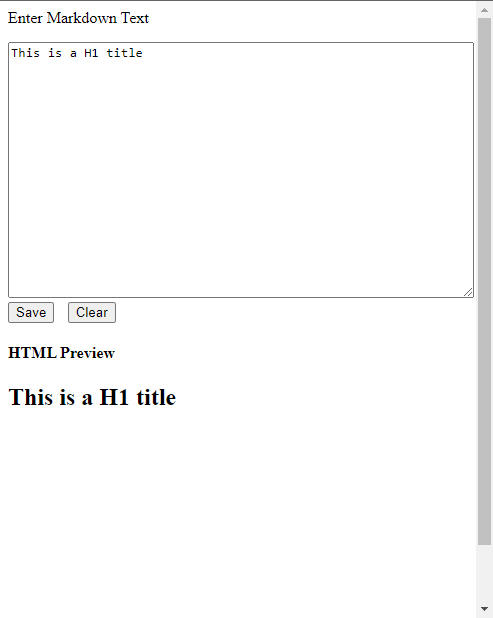
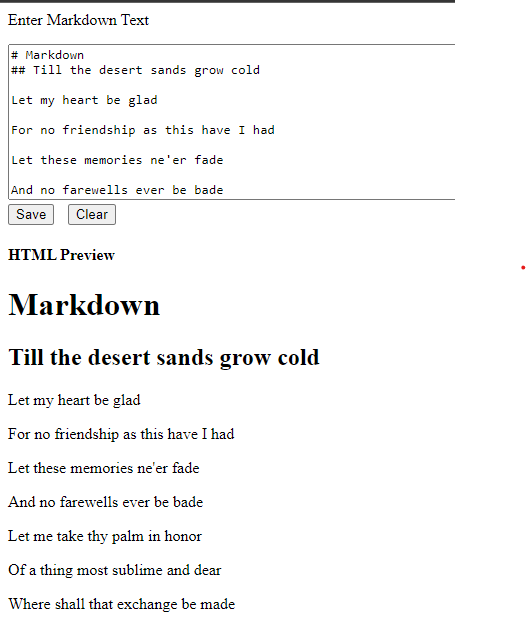
Fixed multiline issues

diff --git a/src/app/app.component.ts b/src/app/app.component.ts
@@ -20,7 +20,7 @@ export class AppComponent {
 
 
   markdownTextForm = this.formBuilder.group({
-    text: '',
+    text: localStorage.getItem("markdown"),
   });
 
   constructor(
@@ -29,21 +29,29 @@ export class AppComponent {
 
   onSubmit(){
     console.warn('submitted', this.markdownTextForm.value);
-    this.file.text = this.markdownTextForm.value
+    // this.file.text = this.markdownTextForm.value
     this.file = {
       id: 1,
     title:"Tilte",
     text:this.markdownTextForm.value.text
     }
+    localStorage.setItem("markdown", this.markdownTextForm.value.text)
     // this.markdownTextForm.reset();
+    this.reload()
+
   }
 
   onClear(){
     this.markdownTextForm.reset();
+    localStorage.removeItem("markdown")
+    this.reload()
   }
 
   onTextChange(input:any){
     // console.log(input.value)
+  }
+  reload(){
+    window.location.reload()
   }
 
 

diff --git a/src/app/app.component.html b/src/app/app.component.html
@@ -26,21 +26,15 @@
 
 
       <button type="submit" title="Save" mat-raised-button
-          style="margin-right: 1em;">Save</button>
+          style="margin-right: 1em;">Render</button>
       <button type="button" title="Clear all input fields" (click)="onClear()" mat-raised-button color="warn"
           style="margin-right: 1em;">Clear</button>
   </form>
 
   <h4>HTML Preview</h4>
-  <!-- <markdown ngPreserveWhitespaces>
+  <markdown ngPreserveWhitespaces>
     {{markdownTextForm.value.text}}
-  </markdown> -->
-  <section  #txtAreaValue  style="margin-top: 15px; width: 100%; height:150px" >
-    <!-- {{markdownTextForm.value.text}} -->
-    <h1>This is a H1 title</h1>
-  </section>
-
-<app-html [file] = "file"></app-html>
+  </markdown>
 
 
 

diff --git a/README.md b/README.md
@@ -1,24 +1,30 @@
 # MarkDown Engine
 
-This project was generated with [Angular CLI](https://github.com/angular/angular-cli) version 13.1.3.
+The MarkDown Engine app is a simple program that takes in markdown input and renders HTML as output.
+
+The image below shows the user interface of the application with sample text.
 
 ## Image of render
 
 ![Looks](src/assets/mengine.png)
 
 
-## How it works
+## How to run the project
+
+This project was generated with [Angular CLI](https://github.com/angular/angular-cli) version 13.1.3.
 
 Clone the repo and run the program with the command `ng serve` for a dev server to start.
 
 Navigate to `http://localhost:4200/`.
 
-Write text in the text are and click **SAVE** to get a html preview of the program
-
-## Limitations
-The program cannot make multiple lines on HTML preview. All the rendered markdown is on one line.
+Write text in the textare and click **RENDER** to get a html preview of the program
 
 
 ## Further help on Angular
 
 To get more help on the Angular CLI use `ng help` or go check out the [Angular CLI Overview and Command Reference](https://angular.io/cli) page.
+
+## Credits
+
+jfcere ngx markdown[jfcere](https://github.com/jfcere/ngx-markdown/tree/master/lib)
+
